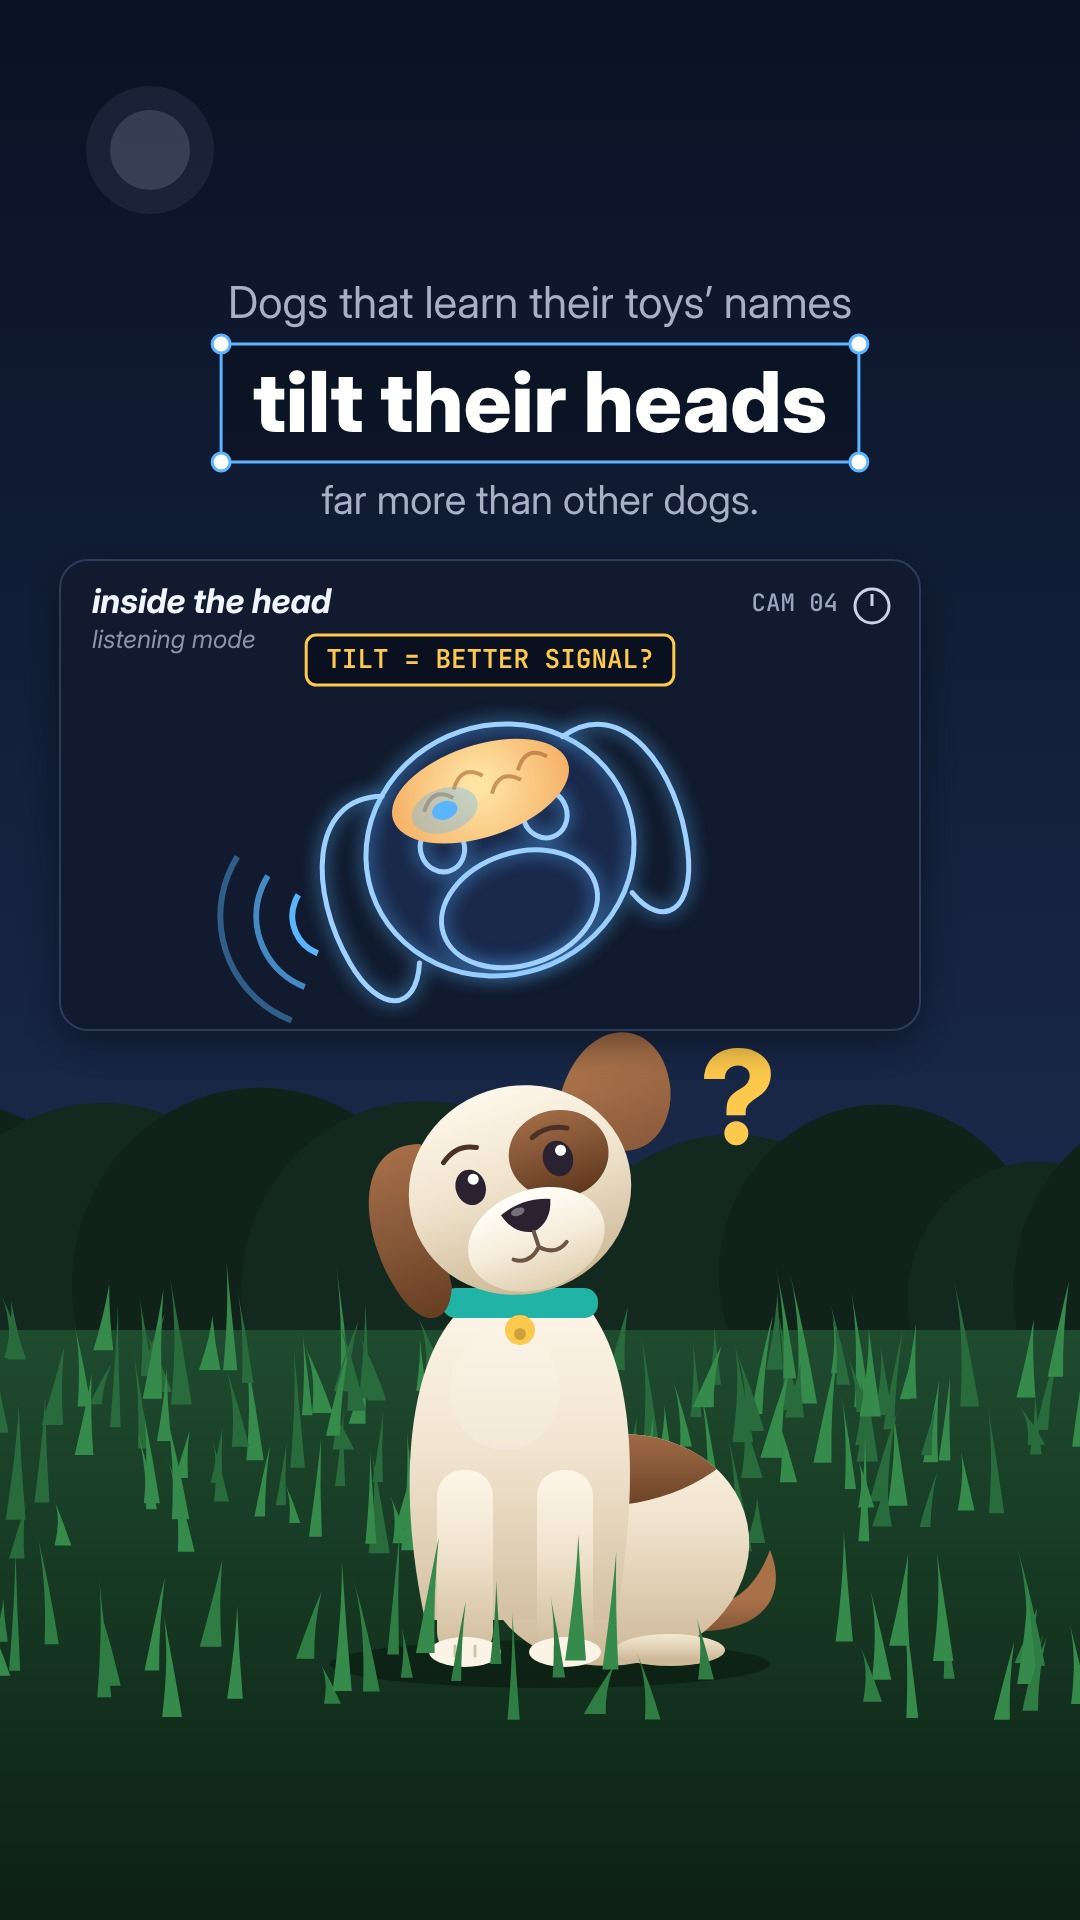
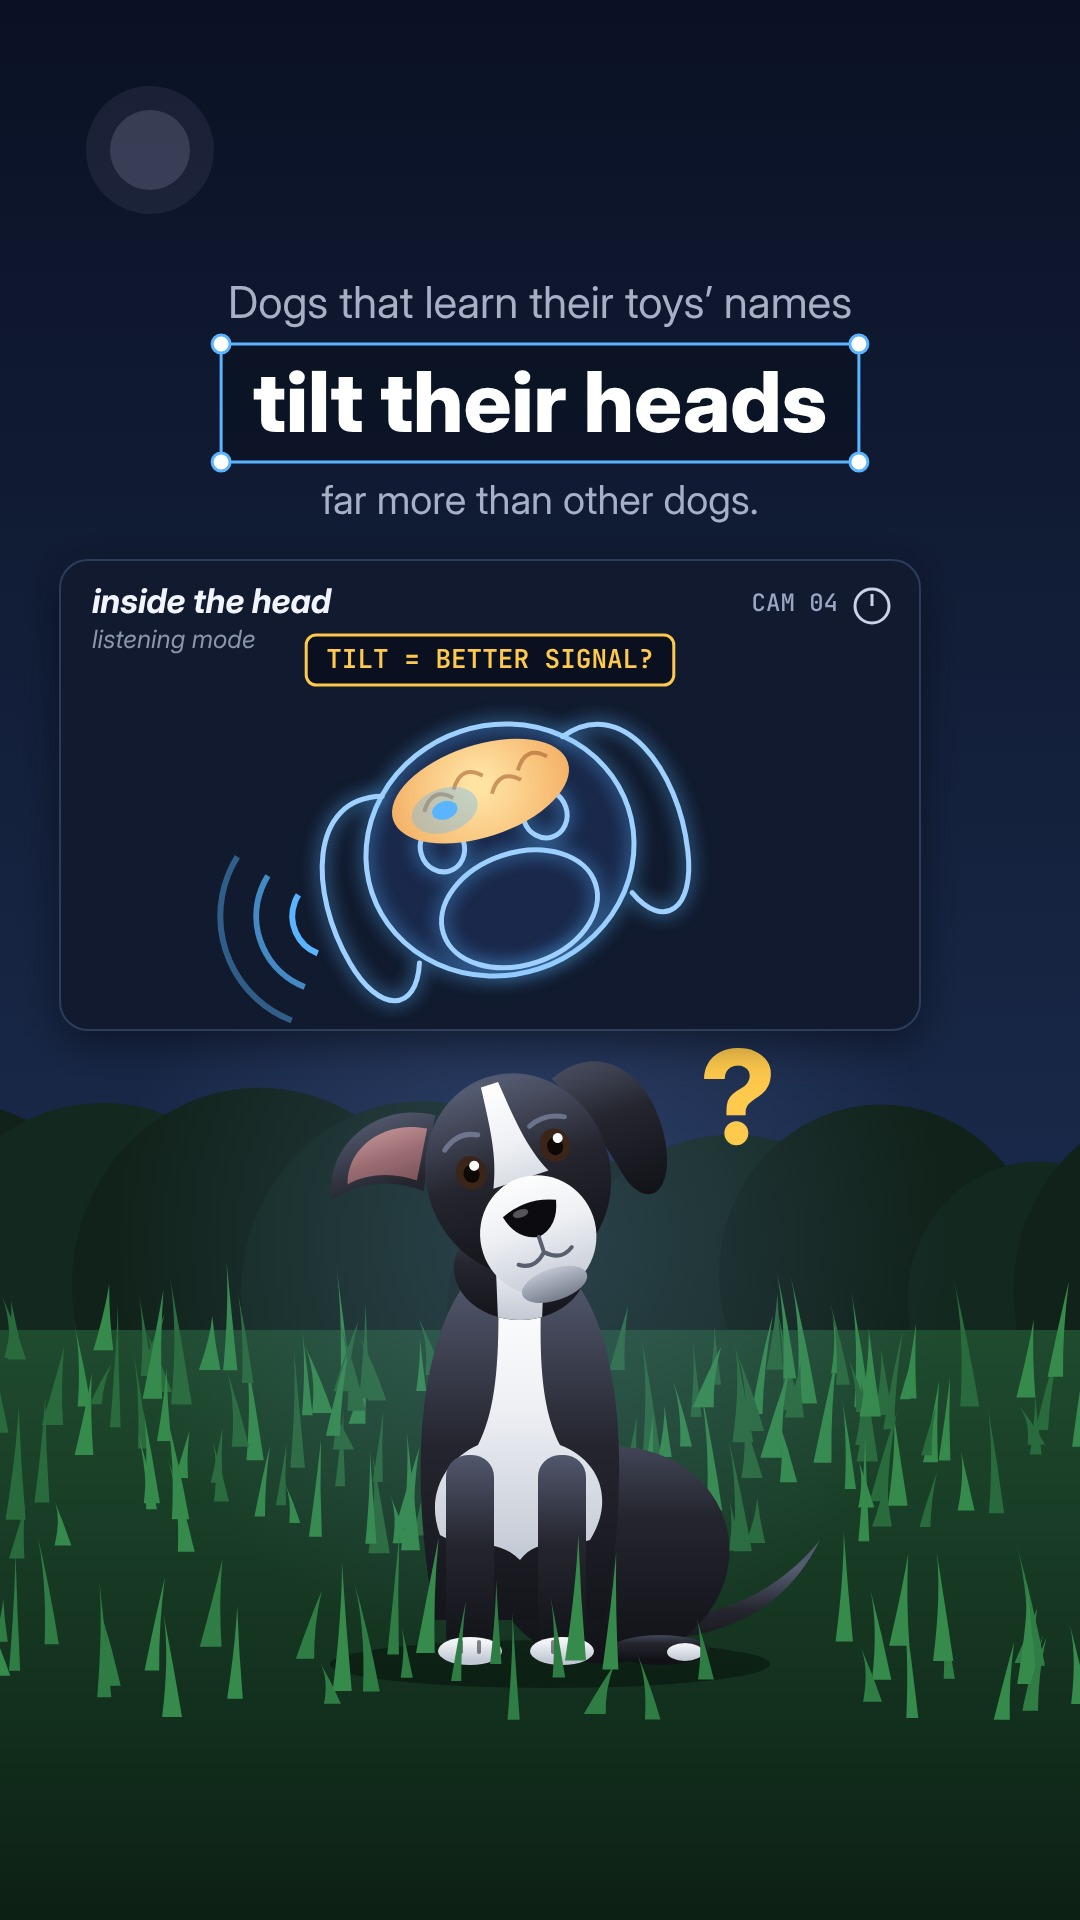
Pet Cam: the user's own dog as the recurring character
Claude-Session: https://claude.ai/code/session_01GLiioKjCKQwiWDGFGiBjjQ

Changed region(s): [[0.3056, 0.5312, 0.7333, 0.875]]

diff --git a/pet-cam-test/frame.js b/pet-cam-test/frame.js
@@ -3,7 +3,8 @@ const W = 1080, H = 1920;
 const cv = document.getElementById('c'), g = cv.getContext('2d');
 const SAFE = { x0: 60, x1: 920, y0: 250, y1: 1480 };
 const ACC = { good: '#3DDC97', bad: '#FF5C6C', ask: '#FFC94D', fact: '#5AB4FF' };
-const DOG = { coat: ['#FFF8EC', '#F1E4CF', '#CDB898'], patch: ['#A9714A', '#8A5A3B', '#61391F'], dark: '#2A2230' };
+// the user's dog: black coat with a cool sheen, white blaze, muzzle, chin, chest bib and front toes; brown eyes; semi-floppy ears
+const DOG = { coat: ['#545A70', '#24252E', '#111117'], white: ['#FFFFFF', '#EEF0F4', '#C3C9D4'], eye: '#3B2418', nose: '#0C0C10', inner: ['#C9989C', '#9C6E74', '#6E4A50'] };
 
 function rng(seed) { return () => (seed = (seed * 16807) % 2147483647) / 2147483647; }
 // soft flat shading: highlight at the top, base in the middle, shadow at the bottom of each form
@@ -37,56 +38,72 @@ function grass(y0, y1, n, col, seed) {
   }
 }
 
-// ---------- the dog (original design: cream coat, brown ears, brown saddle and one brown eye patch, teal collar) ----------
+// ---------- the dog (based on the user's dog) ----------
 // sitting, three-quarter front view, so a head tilt reads at a glance
 function dog(x, y, tilt) {     // x,y = centre of the front paws on the ground
   g.save(); g.translate(x, y);
-  g.fillStyle = 'rgba(0,0,0,.3)'; ell(30, 4, 220, 24); g.fill();
-  // tail curled on the ground
-  g.fillStyle = shade(-60, 0, DOG.patch);
-  g.beginPath(); g.moveTo(150, -30); g.bezierCurveTo(240, -20, 270, -60, 250, -110); g.bezierCurveTo(235, -70, 210, -45, 150, -55); g.closePath(); g.fill();
-  // haunch (sitting rear leg), behind the chest
-  g.fillStyle = shade(-260, 0, DOG.coat); ell(95, -110, 135, 115, -0.2); g.fill();
-  g.save(); ell(95, -110, 135, 115, -0.2); g.clip(); g.fillStyle = shade(-240, -140, DOG.patch); ell(120, -230, 120, 70, -0.3); g.fill(); g.restore();
-  g.fillStyle = shade(-30, 0, ['#F7EEDD', '#E8D9BF', '#CDB898']); ell(150, -10, 55, 16); g.fill();
-  // chest / body
-  g.fillStyle = shade(-380, 0, DOG.coat);
-  g.beginPath(); g.moveTo(-95, -40); g.bezierCurveTo(-125, -180, -110, -300, -60, -350); g.lineTo(70, -350); g.bezierCurveTo(115, -290, 120, -170, 95, -40); g.closePath(); g.fill();
-  g.fillStyle = 'rgba(255,255,255,.16)'; ell(-15, -270, 55, 60); g.fill();
-  // front legs
-  for (const lx of [-55, 45]) {
-    g.fillStyle = shade(-200, 0, DOG.coat); g.beginPath(); g.roundRect(lx - 28, -190, 56, 188, 26); g.fill();
-    g.fillStyle = '#FBF4E6'; ell(lx, -8, 36, 15); g.fill();
-    g.strokeStyle = 'rgba(160,130,90,.45)'; g.lineWidth = 3; g.lineCap = 'round';
-    for (const d of [-10, 10]) { g.beginPath(); g.moveTo(lx + d, -14); g.lineTo(lx + d, -4); g.stroke(); }
-  }
-  // collar
-  g.fillStyle = '#21B3A6'; g.beginPath(); g.roundRect(-78, -372, 156, 30, 14); g.fill();
-  g.fillStyle = '#FFC94D'; ell(0, -330, 15, 15); g.fill(); g.fillStyle = 'rgba(0,0,0,.2)'; ell(0, -326, 6, 6); g.fill();
-  // head
-  g.save(); g.translate(0, -470); g.rotate(tilt);
-  const ear = (sx, up) => {     // floppy ear; 'up' = perked by the tilt
-    g.save(); g.scale(sx, 1);
-    g.fillStyle = shade(-90, 110, DOG.patch);
-    g.beginPath();
-    if (up) { g.moveTo(-70, -80); g.bezierCurveTo(-120, -150, -190, -120, -175, -50); g.bezierCurveTo(-165, -10, -130, 10, -100, -10); g.bezierCurveTo(-90, -40, -80, -60, -70, -80); }
-    else { g.moveTo(-80, -75); g.bezierCurveTo(-140, -95, -165, -20, -150, 50); g.bezierCurveTo(-140, 100, -110, 110, -95, 70); g.bezierCurveTo(-90, 20, -85, -30, -80, -75); }
-    g.fill(); g.restore();
-  };
-  ear(1, false); ear(-1, true);
-  g.fillStyle = shade(-110, 100, DOG.coat); ell(0, 0, 112, 104); g.fill();
-  g.save(); ell(0, 0, 112, 104); g.clip();
-  g.fillStyle = shade(-80, 20, DOG.patch); ell(48, -22, 50, 44, 0.2); g.fill();     // eye patch
+  // a soft pool of light behind and under the dog so the black coat separates from the night
+  const pool = g.createRadialGradient(10, -420, 40, 10, -420, 420);
+  pool.addColorStop(0, 'rgba(120,150,220,.22)'); pool.addColorStop(1, 'rgba(120,150,220,0)');
+  g.fillStyle = pool; ell(10, -420, 420, 460); g.fill();
+  g.fillStyle = 'rgba(0,0,0,.35)'; ell(30, 4, 220, 24); g.fill();
+  // thin tail, out to the side on the floor
+  g.fillStyle = shade(-90, 0, DOG.coat);
+  g.beginPath(); g.moveTo(130, -40); g.bezierCurveTo(200, -40, 260, -70, 300, -120); g.bezierCurveTo(270, -60, 220, -25, 135, -20); g.closePath(); g.fill();
+  // haunch
+  g.fillStyle = shade(-260, 0, DOG.coat); ell(90, -105, 120, 108, -0.2); g.fill();
+  g.fillStyle = shade(-30, 0, DOG.coat); ell(140, -10, 50, 15); g.fill();
+  g.fillStyle = shade(-26, 0, DOG.white); ell(165, -8, 18, 9); g.fill();          // white toe on the rear paw
+  // chest / body: slim and tall
+  const chest = () => { g.beginPath(); g.moveTo(-85, -40); g.bezierCurveTo(-112, -190, -100, -310, -58, -372); g.lineTo(60, -372); g.bezierCurveTo(102, -310, 110, -180, 85, -40); g.closePath(); };
+  g.fillStyle = shade(-390, 0, DOG.coat); chest(); g.fill();
+  // white chest bib: a narrow stripe down the throat opening into a wide bib
+  g.save(); chest(); g.clip();
+  g.fillStyle = shade(-380, -100, DOG.white);
+  g.beginPath(); g.moveTo(-22, -380); g.lineTo(22, -380); g.bezierCurveTo(18, -300, 22, -250, 40, -215); g.bezierCurveTo(80, -200, 95, -160, 70, -120); g.bezierCurveTo(40, -110, 20, -125, 0, -100); g.bezierCurveTo(-25, -125, -55, -110, -80, -125); g.bezierCurveTo(-95, -165, -75, -200, -42, -215); g.bezierCurveTo(-24, -250, -20, -300, -22, -380); g.fill();
   g.restore();
-  g.fillStyle = shade(10, 110, ['#FFFDF6', '#F6ECDA', '#DCCAAA']); ell(0, 52, 70, 50); g.fill();   // muzzle
-  g.fillStyle = DOG.dark; g.beginPath(); g.moveTo(-26, 18); g.quadraticCurveTo(0, 8, 26, 18); g.quadraticCurveTo(20, 40, 0, 44); g.quadraticCurveTo(-20, 40, -26, 18); g.fill();
-  g.fillStyle = 'rgba(255,255,255,.35)'; ell(-9, 20, 7, 4); g.fill();
-  g.strokeStyle = '#6E5444'; g.lineWidth = 4; g.lineCap = 'round';
-  g.beginPath(); g.moveTo(0, 44); g.lineTo(0, 60); g.quadraticCurveTo(-14, 74, -28, 64); g.moveTo(0, 60); g.quadraticCurveTo(14, 74, 28, 64); g.stroke();
-  for (const ex of [-46, 46]) { g.fillStyle = DOG.dark; ell(ex, -18, 15, 18); g.fill(); g.fillStyle = '#FFFFFF'; ell(ex + 5, -25, 5.5, 5.5); g.fill(); }
-  g.strokeStyle = '#4A3226'; g.lineWidth = 5;
-  g.beginPath(); g.moveTo(-64, -50); g.quadraticCurveTo(-46, -64, -28, -54); g.stroke();      // one brow higher = curious
-  g.beginPath(); g.moveTo(28, -46); g.quadraticCurveTo(46, -54, 64, -44); g.stroke();
+  // neck: rounds the shoulders into the head; the white throat stripe runs up it
+  g.fillStyle = shade(-450, -330, DOG.coat); ell(0, -392, 66, 52); g.fill();
+  g.save(); ell(0, -392, 66, 52); g.clip(); g.fillStyle = shade(-440, -340, DOG.white);
+  g.beginPath(); g.moveTo(-26, -440); g.lineTo(26, -440); g.lineTo(22, -340); g.lineTo(-22, -340); g.fill(); g.restore();
+  // front legs: long and slim, white toes
+  for (const lx of [-50, 42]) {
+    g.fillStyle = shade(-210, 0, DOG.coat); g.beginPath(); g.roundRect(lx - 24, -205, 48, 202, 22); g.fill();
+    g.fillStyle = shade(-30, 0, DOG.white); ell(lx, -9, 32, 14); g.fill();
+    g.fillStyle = 'rgba(17,17,23,.5)'; for (const d of [-9, 9]) { g.beginPath(); g.roundRect(lx + d - 2, -20, 4, 14, 2); g.fill(); }
+  }
+  // head
+  g.save(); g.translate(0, -480); g.rotate(tilt);
+  const ear = (sx, flipped) => {   // semi-floppy: folds down; 'flipped' = turned out, showing the pink inside
+    g.save(); g.scale(sx, 1);
+    g.fillStyle = shade(-110, 60, DOG.coat);
+    g.beginPath();
+    if (flipped) { g.moveTo(-60, -88); g.bezierCurveTo(-110, -120, -175, -95, -185, -40); g.bezierCurveTo(-150, -50, -120, -40, -95, -20); g.bezierCurveTo(-82, -45, -72, -68, -60, -88); g.fill();
+      g.fillStyle = shade(-100, -20, DOG.inner); g.beginPath(); g.moveTo(-72, -78); g.bezierCurveTo(-110, -100, -155, -85, -165, -50); g.bezierCurveTo(-140, -55, -115, -45, -98, -32); g.closePath(); g.fill(); }
+    else { g.moveTo(-62, -86); g.bezierCurveTo(-120, -110, -160, -60, -150, 10); g.bezierCurveTo(-142, 60, -112, 70, -100, 30); g.bezierCurveTo(-92, -10, -80, -50, -62, -86); g.fill(); }
+    g.restore();
+  };
+  ear(1, true); ear(-1, false);
+  const skull = () => ell(0, -6, 92, 102);
+  g.fillStyle = shade(-100, 100, DOG.coat); skull(); g.fill();
+  // white blaze from the forehead down between the eyes, widening over the muzzle
+  g.save(); skull(); g.clip();
+  g.fillStyle = shade(-100, 40, DOG.white);
+  g.beginPath(); g.moveTo(-8, -100); g.lineTo(10, -100); g.bezierCurveTo(14, -60, 16, -30, 30, 0); g.lineTo(-28, 0); g.bezierCurveTo(-14, -30, -12, -60, -8, -100); g.fill();
+  g.restore();
+  // muzzle (white) and chin
+  g.fillStyle = shade(-10, 120, DOG.white); ell(0, 58, 58, 60); g.fill();
+  g.fillStyle = shade(90, 130, ['#C9CED8', '#9EA5B3', '#6E7482']); ell(0, 110, 34, 16); g.fill();
+  // nose + mouth
+  g.fillStyle = DOG.nose; g.beginPath(); g.moveTo(-28, 30); g.quadraticCurveTo(0, 18, 28, 30); g.quadraticCurveTo(22, 56, 0, 60); g.quadraticCurveTo(-22, 56, -28, 30); g.fill();
+  g.fillStyle = 'rgba(255,255,255,.3)'; ell(-10, 32, 8, 4); g.fill();
+  g.strokeStyle = '#5A5F70'; g.lineWidth = 4; g.lineCap = 'round';
+  g.beginPath(); g.moveTo(0, 60); g.lineTo(0, 76); g.quadraticCurveTo(-14, 90, -28, 80); g.moveTo(0, 76); g.quadraticCurveTo(14, 90, 28, 80); g.stroke();
+  // warm brown eyes with a highlight, and a soft lighter brow mark (black dogs emote with brows too)
+  for (const ex of [-44, 44]) { g.fillStyle = DOG.eye; ell(ex, -22, 15, 17); g.fill(); g.fillStyle = '#0E0806'; ell(ex, -21, 8, 9); g.fill(); g.fillStyle = '#FFFFFF'; ell(ex + 5, -28, 5, 5); g.fill(); }
+  g.strokeStyle = 'rgba(150,160,190,.55)'; g.lineWidth = 5;
+  g.beginPath(); g.moveTo(-62, -52); g.quadraticCurveTo(-44, -66, -26, -56); g.stroke();
+  g.beginPath(); g.moveTo(26, -48); g.quadraticCurveTo(44, -56, 62, -46); g.stroke();
   g.restore();
   g.restore();
 }

diff --git a/pet-cam-test/style/STYLE.md b/pet-cam-test/style/STYLE.md
@@ -26,7 +26,7 @@ Not Sci-Fi Sitcom Toon (no boiling outlines, no dialogue comedy, no portal), not
 
 - **Canvas 2D at 1080×1920**, vector paths. **No outlines** on characters or sets: shape edges are colour edges.
 - **Soft shading**: each form gets a vertical gradient highlight → base → shadow (about 20 % darker), one soft inner highlight where light hits, and a soft ground shadow ellipse. No hard cel shadows, no textures.
-- **Characters**: rounded, friendly, big dark eyes with one white highlight; brows carry the emotion; mouths are simple lines. Pets are original designs with one memorable marking (e.g. the demo dog: cream coat, brown ears, brown saddle and one brown eye patch, teal collar). Prefer three-quarter front views for expressions (a head tilt reads front-on, not in profile).
+- **Characters**: rounded, friendly, big dark eyes with one white highlight; brows carry the emotion; mouths are simple lines. **The recurring star is the user's own dog**, kept identical in every film: a slim, leggy black lab/pit-type mix with a glossy black coat (cool blue-grey sheen on top of each form), a white blaze from the forehead widening over the muzzle, a white muzzle with a darker chin, a narrow white throat stripe opening into a wide chest bib, white toes on the front paws, warm brown eyes, semi-floppy ears (one often flipped out, pink inside), a thin black tail and no collar (`character-vs-photo.jpg`). Other animals are original designs with one memorable marking. A black coat needs separation from dark scenes: a soft pool of light behind the dog and the coat's top highlight, never an outline. Prefer three-quarter front views for expressions (a head tilt reads front-on, not in profile).
 - **Scenes**: a few big layers: sky gradient, a moon or sun, round trees or buildings as soft silhouettes, a ground gradient, tapered grass blades in two greens in front and behind the pet.
 - **CAM-feed card**: rounded rectangle (radius ~28), navy `#111A2E`, 2 px border `rgba(120,150,210,.28)`, a soft drop shadow; italic title (Inter Italic 700, 34 px) and subtitle (Inter Italic 400, 25 px, grey) top-left; mono `CAM 04` (JetBrains Mono 24 px) and a timer ring top-right. Inside: a diagram view (x-ray in glowing blue strokes, the inside of an organ in its own colours, a thermal palette, a grid of icons).
 - **X-ray views** redraw the same character in glowing blue strokes (`#9FD0FF` with a blue glow) at the same pose and angle as in the scene; organs inside are soft-shaded colour shapes.

diff --git a/pet-cam-test/style/CHANGES.md b/pet-cam-test/style/CHANGES.md
@@ -7,7 +7,7 @@ Made from a blank page. Technique base: Sci-Fi Sitcom Toon (`scifi-toon`). Borro
 | Size / use | 1920×1080 dialogue comedy | 1080×1920 pet behaviour and health explainers, 45–65 s | The user's format |
 | §1 Essence | hand-drawn TV comedy, dialogue | narrator explains, picture proves; CAM-feed cards; captions are the voice | Explainer, not sitcom |
 | §2 Materials | thick boiling outlines, hard shadows | soft flat vector, no outlines, gradient shading; x-ray views in glowing strokes | Matches the documentary feel the user wants |
-| §2 Cast | two leads, a creature | original pets (front three-quarter for expressions) and one owner | Pet topics |
+| §2 Cast | two leads, a creature | the user's own dog as the recurring star (black coat, white blaze, bib and toes), other original animals and one owner; front three-quarter for expressions | A consistent, personal channel character |
 | §3 Colour | per-world palettes | mood-lit scenes (night / dusk); navy cards and HUD; four meaning accents | Mood from light, meaning from accents |
 | §4 Type | retro terminal tags | Inter two-tier voice captions with a selection box; JetBrains Mono tags; safe area | Captions follow the narrator |
 | §7 Sound | theremin score, two voices | one calm narrator (generated now, user's recordings later); soft underscore; whoosh per card | Voice-led explainer |
